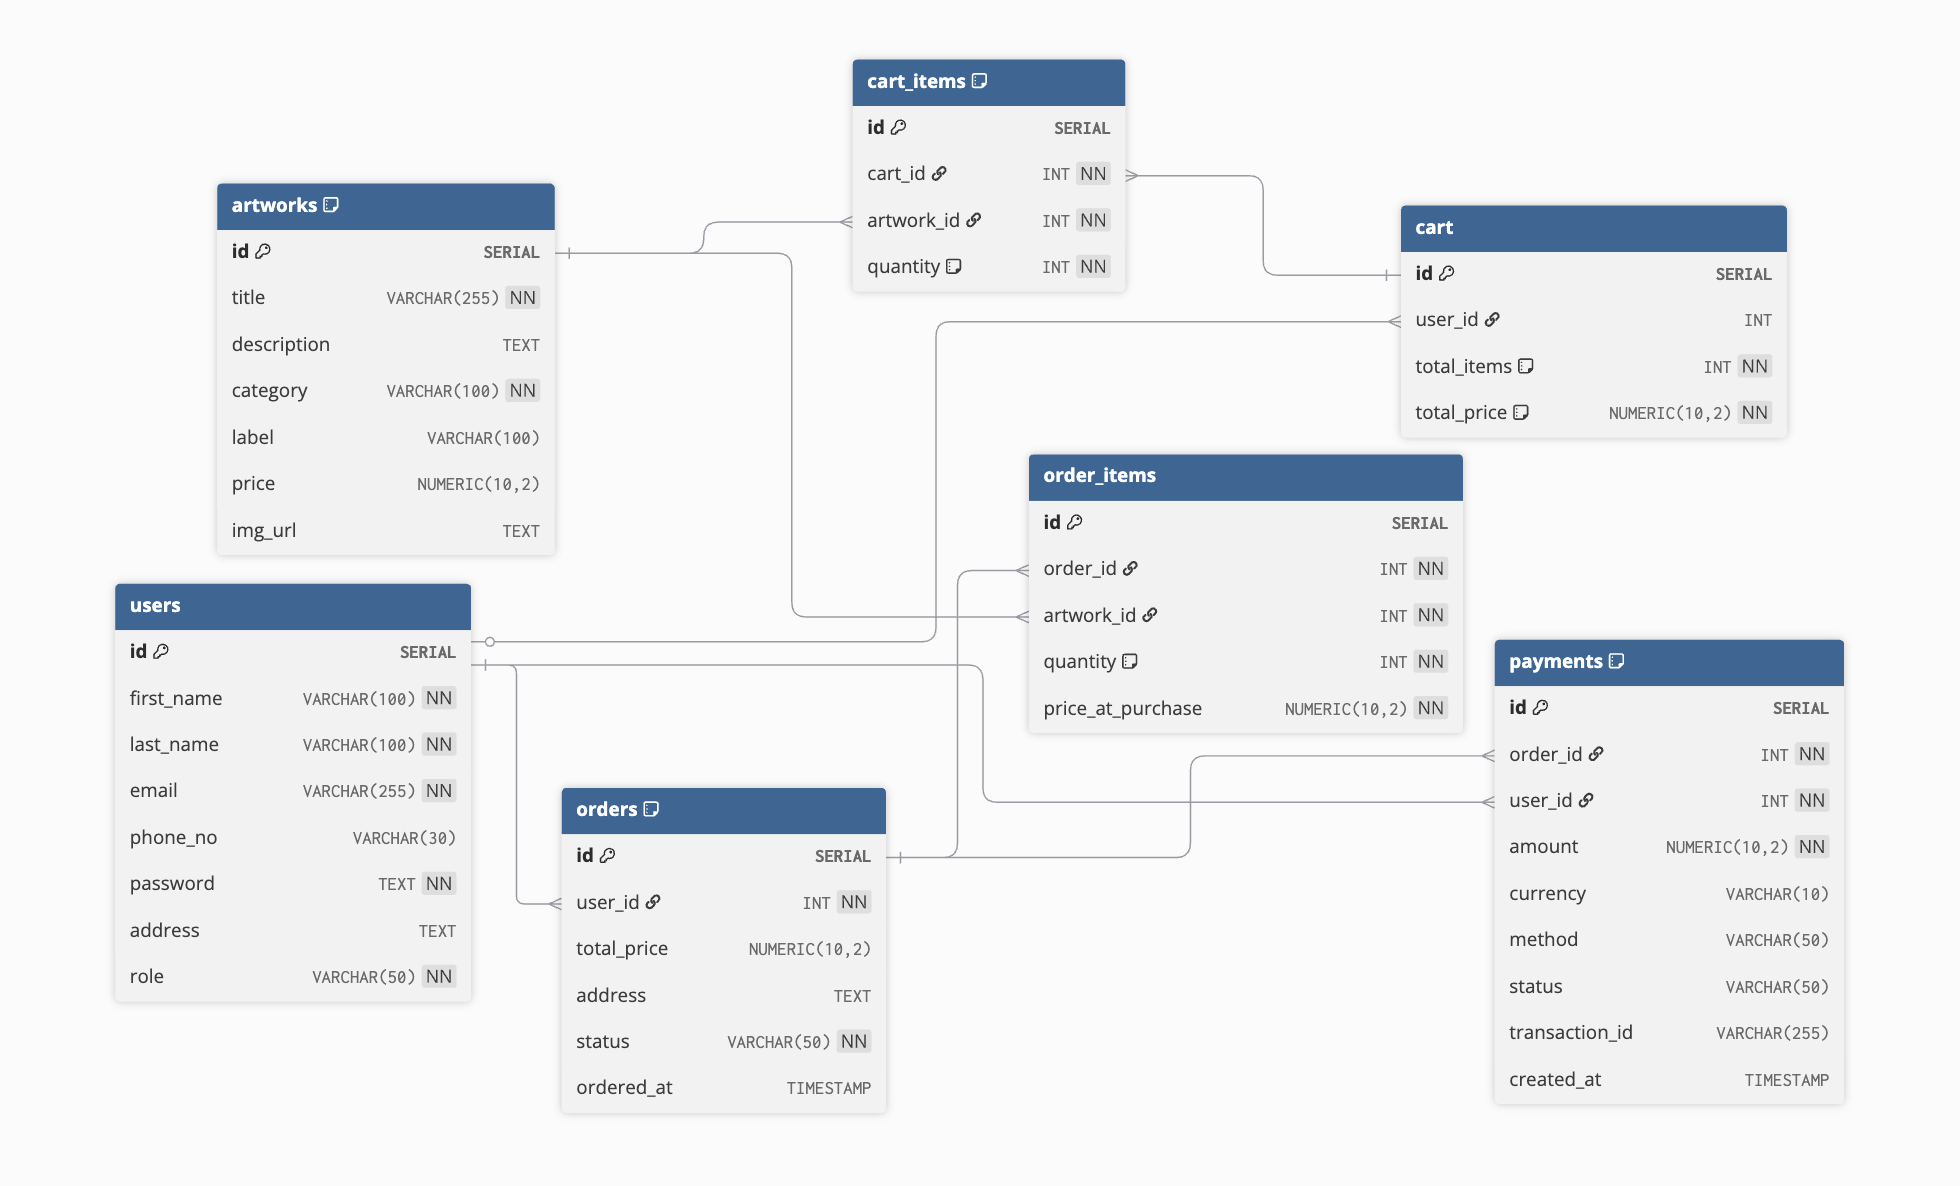
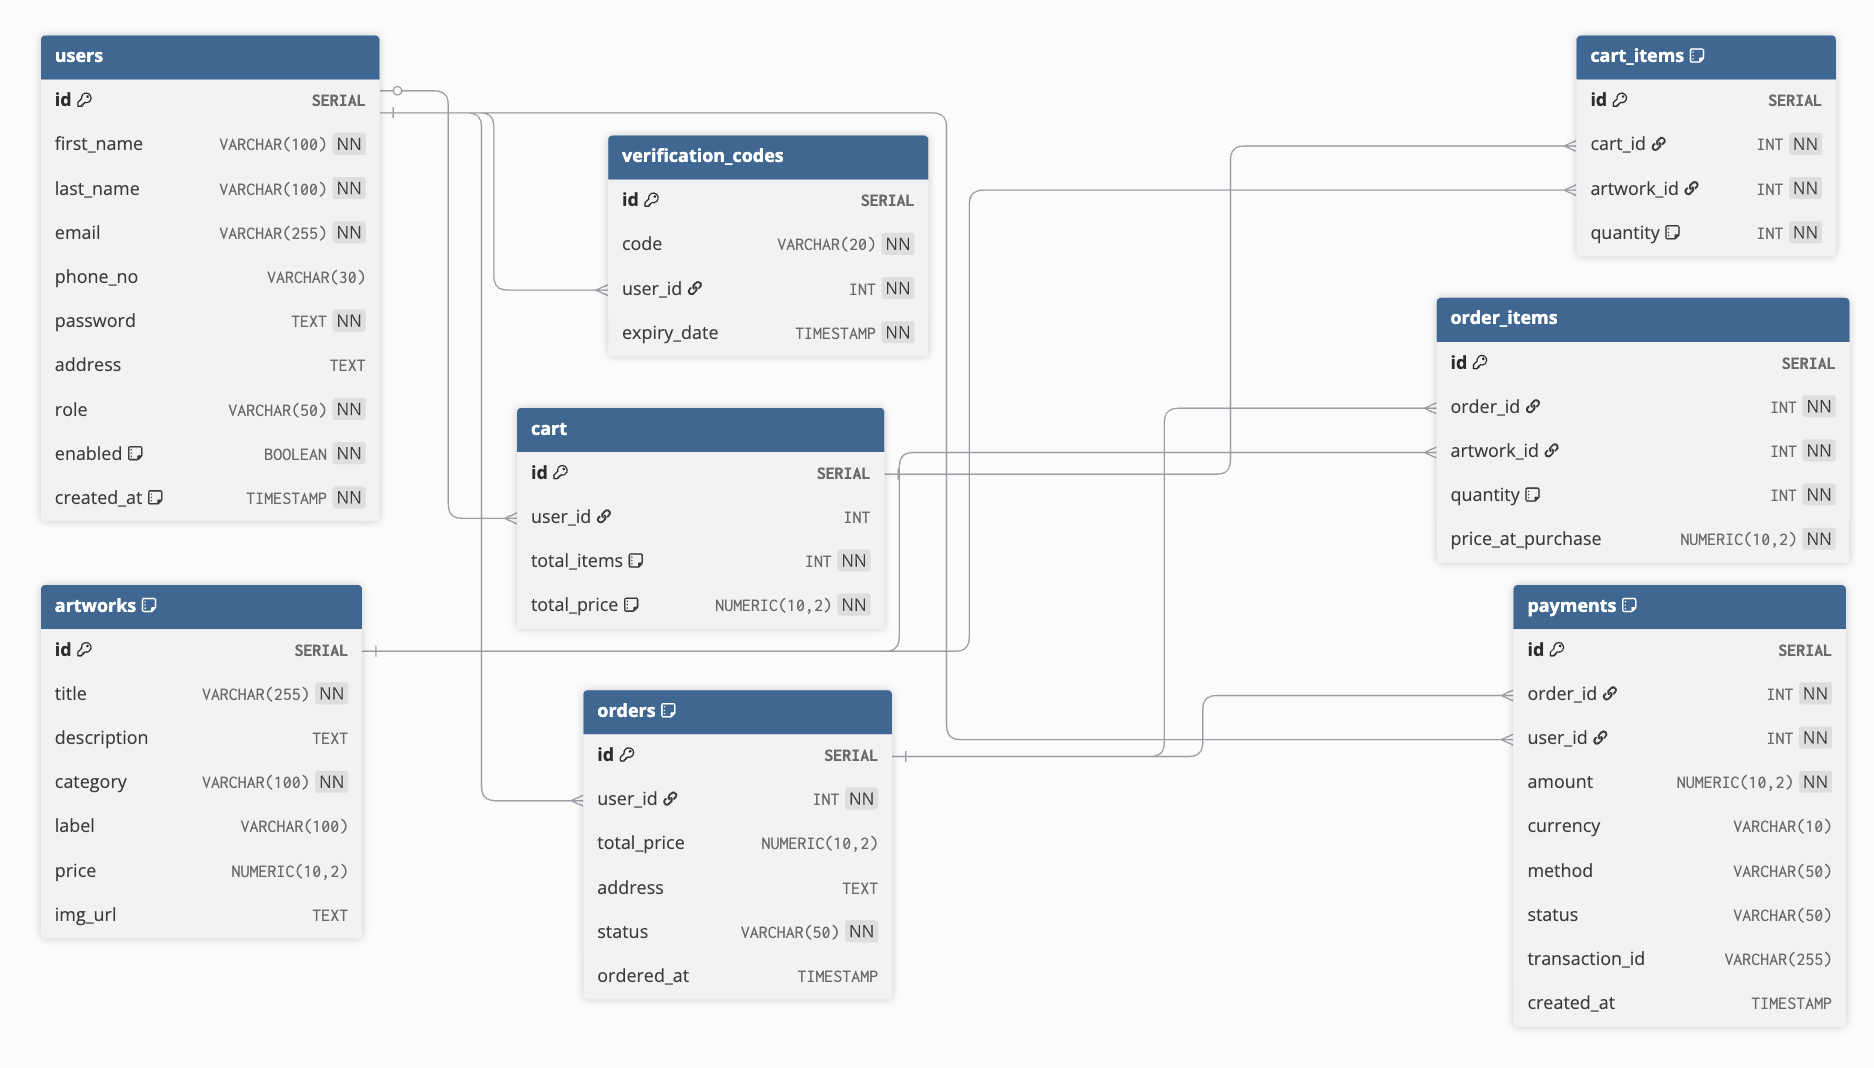
doc: Updated the README.md file

diff --git a/README.md b/README.md
@@ -2,9 +2,16 @@
 
 ## Concept
 
-An online art gallery where users can browse, order, and purchase artworks through a simple and secure checkout process.
+An intuitive online art gallery where users can **browse, order, and purchase artworks** seamlessly. The platform ensures a **secure checkout process** while providing an enjoyable user experience for art lovers and collectors alike.
 
----
+## Tools & Technologies
+
+- **Backend:** Java, SpringBoot
+- **Database & Storage:** PostgreSQL, Supabase
+- **Authentication & Security:** JWT
+- **Email Service:** SendGrid (for user verification and notifications)
+- **Payments:** Stripe
+- **Containerization:** Docker
 
 ## Database
 
@@ -12,26 +19,129 @@ An online art gallery where users can browse, order, and purchase artworks throu
 
 ![Database Schema](./docs/images/schema.png)
 
----
-
 ## Backend
 
-### Order and Payment Flow
+### Codebase Structure
 
-The order and payment system follows a clear, status-based flow to ensure consistency and reliability.
+DB -> Repositories -> Services -> DTOs -> Controllers & Routes
 
-- **Order Placed**  
-  When a user places an order, an **Order** is created with status `PENDING`.  
-  A corresponding **Payment** record is also created with status `PENDING`.
+## Environment Variables
 
-- **Payment Success**  
-  When the payment status transitions to `SUCCESS`, the associated **Order** automatically transitions to `CONFIRMED`.
+#### Database Configuration
 
-- **Payment Failed**  
-  If the payment fails, the **Order** remains `PENDING`, allowing the user to retry the payment.  
-  If payment is not completed after a certain period, the order may transition to `CANCELLED`.
+DB_URL=your_db_url
+DB_USER=postgres
+DB_PASSWORD=your_db_password
 
-- **Order Cancelled**  
-  If an order is cancelled after a successful payment, a **refund should be triggered**.
+#### Security & JWT
 
----
+JWT_SECRET=your_jwt_secret_key_min_32_chars
+JWT_EXPIRATION_MS=86400000
+
+#### Email Service (SendGrid)
+
+EMAIL_HOST=smtp.sendgrid.net
+EMAIL_PORT=587
+EMAIL_FROM=your_verified_email@domain.com
+SENDGRID_API_KEY=SG.your_api_key
+
+#### Payment Gateway (Stripe)
+
+STRIPE_API_KEY=sk_test_your_key
+STRIPE_WEBHOOK_SECRET=whsec_your_secret
+
+#### Cloud Storage (Supabase)
+
+SUPABASE_STORAGE_URL=https://your-project.supabase.co
+SUPABASE_STORAGE_KEY=your_service_role_key
+SUPABASE_STORAGE_BUCKET=artworks
+
+## Getting Started
+
+### Inside backend folder
+
+#### Install dependencies
+
+./mvn clean install
+
+#### Run application
+
+./mvn spring-boot:run
+
+## API ENDPOINTS
+
+### Authentication
+
+**Base Path:** `/api/auth`
+
+- `POST /login` Public — Authenticate user and receive a JWT token.
+
+### User
+
+**Base Path:** `/api/users`
+
+- `POST /` OWNER — Administrative creation of a new user.
+- `POST /register` Public — Self-registration for new users.
+- `POST /verify` Public — Verify registration using an email code.
+- `POST /resend-verification` Public — Request a new verification code.
+- `PUT /{id}` Self / OWNER — Update user profile details.
+- `PATCH /{id}/role` OWNER — Change a user's role.
+- `GET /` OWNER — Retrieve a list of all registered users.
+- `GET /{id}` Self / OWNER — Fetch a specific user's profile by ID.
+- `GET /email/{email}` Self / OWNER — Fetch a specific user's profile by email.
+- `GET /exists/{email}` Public — Check if an email is already registered.
+- `DELETE /{id}` Self / OWNER — Delete a user account.
+
+### Artwork
+
+**Base Path:** `/api/artworks`
+
+- `POST /` OWNER — Upload new artwork with image and metadata.
+- `GET /{id}` Public — Get detailed information for a specific piece.
+- `GET /` Public — Retrieve all available artworks.
+- `GET /category/{category}` Public — Filter artworks by category.
+- `DELETE /{id}` OWNER — Permanently remove an artwork.
+
+### Cart & Cart Items
+
+**Base Path:** `/api/carts | /api/cart-items`
+
+- `POST /api/carts` Self / OWNER — Create a new shopping cart for a user.
+- `GET /api/carts/{id}` Self / OWNER — View cart contents by cart ID.
+- `GET /api/carts/user/{userId}` Self / OWNER — View cart contents by user ID.
+- `DELETE /api/carts/{id}` Self / OWNER — Delete an entire cart.
+- `POST /api/cart-items` Self / OWNER — Add an artwork to the cart.
+- `GET /api/cart-items/cart/{id}` Self / OWNER — View all items within a specific cart.
+- `PATCH /api/cart-items/{id}/increase` Self / OWNER — Increase item quantity.
+- `PATCH /api/cart-items/{id}/decrease` Self / OWNER — Decrease item quantity.
+- `DELETE /api/cart-items/{id}` Self / OWNER — Remove a specific item from the cart.
+
+### Orders
+
+**Base Path:** `/api/orders`
+
+- `POST /` Authenticated — Place a new order from current cart.
+- `GET /{id}` Self / OWNER — Retrieve order details.
+- `GET /user/{userId}` Self / OWNER — List all orders for a specific user.
+- `GET /` OWNER — List all orders in the system.
+- `POST /{id}/confirm` OWNER — Mark order as confirmed.
+- `POST /{id}/ship` OWNER — Mark order as shipped.
+- `POST /{id}/deliver` OWNER — Mark order as delivered.
+- `POST /{id}/cancel` Self / OWNER — Cancel a pending or active order.
+- `DELETE /{id}` OWNER — Administrative deletion of an order.
+
+### Payment & Webhooks
+
+**Base Path:** `/api/payments | /api/stripe`
+
+- `POST /api/payments` Self / OWNER — Initiate a Stripe Payment Intent.
+- `GET /api/payments/order/{id}` Self / OWNER — Fetch payment status for an order.
+- `GET /api/payments/payment-statuses` OWNER — List all possible payment statuses.
+- `DELETE /api/payments/{id}` OWNER — Delete a payment record.
+- `POST /api/stripe/webhook` Public (Stripe) — Handle Stripe payment success/failure events.
+
+### Metadata
+
+**Base Path:** `/api/meta`
+
+- `GET /art-categories` Public — Retrieve list of all valid art categories.
